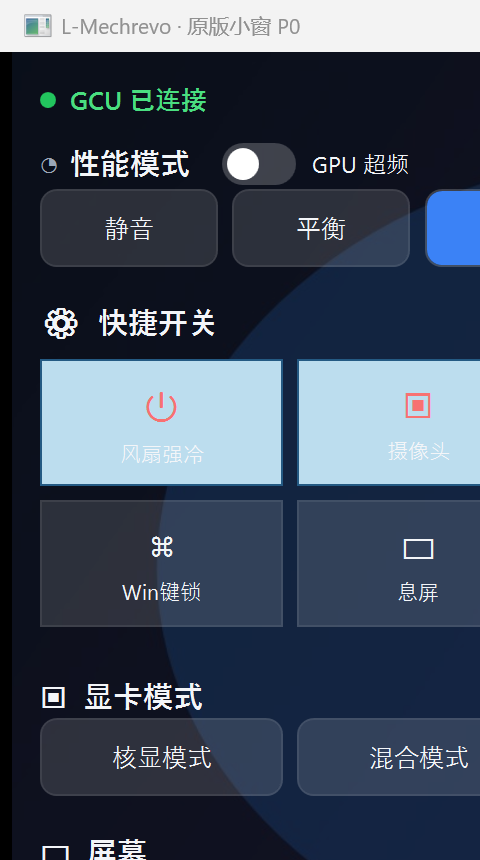
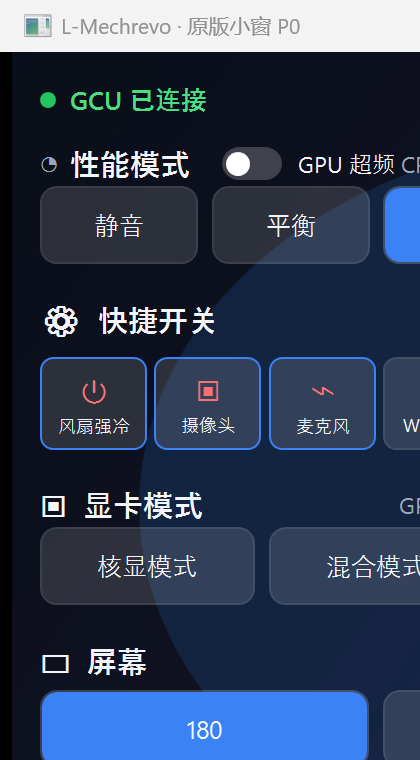
feat(wpf): 原版小窗 420×860、快捷磁贴单排、选中边框高亮、开关缩小

diff --git a/tools/dev/wpf-p0/OriginalStyleWindow.xaml b/tools/dev/wpf-p0/OriginalStyleWindow.xaml
@@ -2,8 +2,8 @@
         xmlns="http://schemas.microsoft.com/winfx/2006/xaml/presentation"
         xmlns:x="http://schemas.microsoft.com/winfx/2006/xaml"
         Title="L-Mechrevo · 原版小窗 P0"
-        Width="480" Height="860"
-        MinWidth="420" MinHeight="700"
+        Width="420" Height="860"
+        MinWidth="380" MinHeight="620"
         WindowStartupLocation="CenterScreen"
         Background="{DynamicResource WindowBgBrush}"
         Foreground="{DynamicResource TextBrush}"
@@ -36,9 +36,31 @@
             <Setter Property="Background" Value="{DynamicResource ControlBrush}" />
             <Setter Property="BorderBrush" Value="{DynamicResource CardBorderBrush}" />
             <Setter Property="BorderThickness" Value="1" />
-            <Setter Property="Margin" Value="0,0,8,8" />
-            <Setter Property="Padding" Value="8,9" />
+            <Setter Property="Margin" Value="0,0,4,0" />
+            <Setter Property="Padding" Value="2,4" />
             <Setter Property="Cursor" Value="Hand" />
+            <Setter Property="Template">
+                <Setter.Value>
+                    <ControlTemplate TargetType="ToggleButton">
+                        <Border x:Name="Bd" Background="{TemplateBinding Background}"
+                                BorderBrush="{TemplateBinding BorderBrush}"
+                                BorderThickness="{TemplateBinding BorderThickness}"
+                                CornerRadius="7" Padding="{TemplateBinding Padding}">
+                            <ContentPresenter HorizontalAlignment="Center" VerticalAlignment="Center" />
+                        </Border>
+                        <ControlTemplate.Triggers>
+                            <Trigger Property="IsMouseOver" Value="True">
+                                <Setter TargetName="Bd" Property="Background" Value="{DynamicResource ControlHoverBrush}" />
+                            </Trigger>
+                            <Trigger Property="IsChecked" Value="True">
+                                <Setter TargetName="Bd" Property="BorderBrush" Value="{DynamicResource AccentBrush}" />
+                                <Setter TargetName="Bd" Property="Background" Value="#22FFFFFF" />
+                                <Setter Property="Foreground" Value="{DynamicResource TextBrush}" />
+                            </Trigger>
+                        </ControlTemplate.Triggers>
+                    </ControlTemplate>
+                </Setter.Value>
+            </Setter>
         </Style>
         <Style x:Key="RowSwitch" TargetType="CheckBox" BasedOn="{StaticResource SwitchBox}">
             <Setter Property="FontSize" Value="14" />
@@ -80,7 +102,7 @@
 
             <ScrollViewer x:Name="MainScroll" Grid.Row="2" VerticalScrollBarVisibility="Auto" HorizontalScrollBarVisibility="Disabled"
                           PanningMode="VerticalOnly" CanContentScroll="False" Background="Transparent">
-                <StackPanel x:Name="ContentPanel" Width="440" HorizontalAlignment="Left">
+                <StackPanel x:Name="ContentPanel" Width="392" HorizontalAlignment="Left">
 
                     <!-- 性能模式 -->
                     <StackPanel Style="{StaticResource Section}">
@@ -96,7 +118,7 @@
                             </StackPanel>
                             <TextBlock Grid.Column="1" Text="CPU 85℃   52W   4427rpm 100%" Style="{StaticResource StatText}" />
                         </Grid>
-                        <UniformGrid Columns="4" Margin="0,2,0,0">
+                        <UniformGrid Columns="4" Width="392" Margin="0,2,0,0">
                             <ToggleButton Content="静音" Style="{StaticResource BigSegment}" />
                             <ToggleButton Content="平衡" Style="{StaticResource BigSegment}" />
                             <ToggleButton Content="狂暴" Style="{StaticResource BigSegment}" IsChecked="True" />
@@ -107,41 +129,41 @@
                     <!-- 快捷开关 -->
                     <StackPanel Style="{StaticResource Section}">
                         <TextBlock Text="⚙  快捷开关" Style="{StaticResource SectionHeader}" />
-                        <UniformGrid Columns="3" Rows="2">
+                        <UniformGrid Columns="6" Rows="1" Width="392">
                             <ToggleButton Style="{StaticResource Tile}" IsChecked="True">
                                 <StackPanel>
-                                    <TextBlock Text="⏻" FontSize="22" HorizontalAlignment="Center" Foreground="#F87171" />
-                                    <TextBlock Text="风扇强冷" FontSize="12" HorizontalAlignment="Center" Margin="0,5,0,0" />
+                                    <TextBlock Text="⏻" FontSize="17" HorizontalAlignment="Center" Foreground="#F87171" />
+                                    <TextBlock Text="风扇强冷" FontSize="10" HorizontalAlignment="Center" Margin="0,3,0,0" />
                                 </StackPanel>
                             </ToggleButton>
                             <ToggleButton Style="{StaticResource Tile}" IsChecked="True">
                                 <StackPanel>
-                                    <TextBlock Text="▣" FontSize="20" HorizontalAlignment="Center" Foreground="#F87171" />
-                                    <TextBlock Text="摄像头" FontSize="12" HorizontalAlignment="Center" Margin="0,5,0,0" />
+                                    <TextBlock Text="▣" FontSize="16" HorizontalAlignment="Center" Foreground="#F87171" />
+                                    <TextBlock Text="摄像头" FontSize="10" HorizontalAlignment="Center" Margin="0,3,0,0" />
                                 </StackPanel>
                             </ToggleButton>
-                            <ToggleButton Style="{StaticResource Tile}" IsChecked="True" Margin="0,0,0,8">
+                            <ToggleButton Style="{StaticResource Tile}" IsChecked="True" >
                                 <StackPanel>
-                                    <TextBlock Text="⌁" FontSize="22" HorizontalAlignment="Center" Foreground="#F87171" />
-                                    <TextBlock Text="麦克风" FontSize="12" HorizontalAlignment="Center" Margin="0,5,0,0" />
+                                    <TextBlock Text="⌁" FontSize="17" HorizontalAlignment="Center" Foreground="#F87171" />
+                                    <TextBlock Text="麦克风" FontSize="10" HorizontalAlignment="Center" Margin="0,3,0,0" />
                                 </StackPanel>
                             </ToggleButton>
                             <ToggleButton Style="{StaticResource Tile}">
                                 <StackPanel>
-                                    <TextBlock Text="⌘" FontSize="20" HorizontalAlignment="Center" />
-                                    <TextBlock Text="Win键锁" FontSize="12" HorizontalAlignment="Center" Margin="0,5,0,0" />
+                                    <TextBlock Text="⌘" FontSize="16" HorizontalAlignment="Center" />
+                                    <TextBlock Text="Win键锁" FontSize="10" HorizontalAlignment="Center" Margin="0,3,0,0" />
                                 </StackPanel>
                             </ToggleButton>
                             <ToggleButton Style="{StaticResource Tile}">
                                 <StackPanel>
-                                    <TextBlock Text="▭" FontSize="20" HorizontalAlignment="Center" />
-                                    <TextBlock Text="息屏" FontSize="12" HorizontalAlignment="Center" Margin="0,5,0,0" />
+                                    <TextBlock Text="▭" FontSize="16" HorizontalAlignment="Center" />
+                                    <TextBlock Text="息屏" FontSize="10" HorizontalAlignment="Center" Margin="0,3,0,0" />
                                 </StackPanel>
                             </ToggleButton>
-                            <ToggleButton Style="{StaticResource Tile}" Margin="0,0,0,8">
+                            <ToggleButton Style="{StaticResource Tile}" >
                                 <StackPanel>
-                                    <TextBlock Text="+" FontSize="24" HorizontalAlignment="Center" Foreground="#F87171" />
-                                    <TextBlock Text="自定义" FontSize="12" HorizontalAlignment="Center" Margin="0,4,0,0" />
+                                    <TextBlock Text="+" FontSize="20" HorizontalAlignment="Center" Foreground="#F87171" />
+                                    <TextBlock Text="自定义" FontSize="10" HorizontalAlignment="Center" Margin="0,3,0,0" />
                                 </StackPanel>
                             </ToggleButton>
                         </UniformGrid>
@@ -157,7 +179,7 @@
                             <TextBlock Text="▣  显卡模式" Style="{StaticResource SectionHeader}" Margin="0" />
                             <TextBlock Grid.Column="1" Text="GPU 73℃   90W   4698rpm 100%" Style="{StaticResource StatText}" />
                         </Grid>
-                        <UniformGrid Columns="3" Margin="0,2,0,0">
+                        <UniformGrid Columns="3" Width="392" Margin="0,2,0,0">
                             <ToggleButton Content="核显模式" Style="{StaticResource BigSegment}" />
                             <ToggleButton Content="混合模式" Style="{StaticResource BigSegment}" />
                             <ToggleButton Content="独显直连" Style="{StaticResource BigSegment}" IsChecked="True" Margin="0" />
@@ -170,7 +192,7 @@
                             <TextBlock Text="▭  屏幕" Style="{StaticResource SectionHeader}" Margin="0" />
                             <CheckBox Content="自动刷新率" Style="{StaticResource RowSwitch}" HorizontalAlignment="Right" FontSize="13" />
                         </Grid>
-                        <UniformGrid Columns="2" Margin="0,0,0,6">
+                        <UniformGrid Columns="2" Width="392" Margin="0,0,0,6">
                             <ToggleButton Content="180" Style="{StaticResource BigSegment}" IsChecked="True" />
                             <ToggleButton Content="60" Style="{StaticResource BigSegment}" Margin="0" />
                         </UniformGrid>
@@ -212,7 +234,7 @@
                             <TextBlock Text="▭  电池" Style="{StaticResource SectionHeader}" Margin="0" />
                             <TextBlock Text="圆口 230/240W · 已充满" Style="{StaticResource StatText}" HorizontalAlignment="Right" />
                         </Grid>
-                        <UniformGrid Columns="3" Margin="0,0,0,10">
+                        <UniformGrid Columns="3" Width="392" Margin="0,0,0,10">
                             <ToggleButton Content="长效模式" Style="{StaticResource BigSegment}" IsChecked="True" />
                             <ToggleButton Content="平衡模式" Style="{StaticResource BigSegment}" />
                             <ToggleButton Content="工作站模式" Style="{StaticResource BigSegment}" Margin="0" />

diff --git a/tools/dev/wpf-p0/App.xaml b/tools/dev/wpf-p0/App.xaml
@@ -113,10 +113,10 @@
                     <Setter.Value>
                         <ControlTemplate TargetType="CheckBox">
                             <StackPanel Orientation="Horizontal">
-                                <Border x:Name="Track" Width="42" Height="24" CornerRadius="12"
+                                <Border x:Name="Track" Width="34" Height="19" CornerRadius="10"
                                         Background="{DynamicResource TrackBrush}" VerticalAlignment="Center">
-                                    <Ellipse x:Name="Knob" Width="18" Height="18" Fill="White"
-                                             HorizontalAlignment="Left" Margin="3,0,0,0" />
+                                    <Ellipse x:Name="Knob" Width="14" Height="14" Fill="White"
+                                             HorizontalAlignment="Left" Margin="2,0,0,0" />
                                 </Border>
                                 <ContentPresenter Margin="9,0,0,0" VerticalAlignment="Center" />
                             </StackPanel>
@@ -124,7 +124,7 @@
                                 <Trigger Property="IsChecked" Value="True">
                                     <Setter TargetName="Track" Property="Background" Value="{DynamicResource AccentBrush}" />
                                     <Setter TargetName="Knob" Property="HorizontalAlignment" Value="Right" />
-                                    <Setter TargetName="Knob" Property="Margin" Value="0,0,3,0" />
+                                    <Setter TargetName="Knob" Property="Margin" Value="0,0,2,0" />
                                 </Trigger>
                             </ControlTemplate.Triggers>
                         </ControlTemplate>

diff --git a/docs/notes/WPF-P0-启动-20261023.md b/docs/notes/WPF-P0-启动-20261023.md
@@ -20,11 +20,11 @@
 
 | 窗口 | 尺寸 | 用途 |
 |---|---|---|
-| `OriginalStyleWindow`（默认） | 480×860 DIP（150% 下约 720×1290 物理像素） | 对齐机主原版小窗：单列分区、快捷磁贴、底部 dock |
+| `OriginalStyleWindow`（默认） | 420×860 DIP（150% 下约 720×1290 物理像素） | 对齐机主原版小窗：单列分区、快捷磁贴、底部 dock |
 | `CompactWindow` | 420×529 DIP | 对齐 WinForms 原版最小客户区 |
 | `MainWindow` | 1180×800 DIP | 宽屏仪表盘对比 |
 
-原版截图 717×1277 物理像素 ≈ 150% 缩放下的 478×851 DIP，因此默认窗口取 480×860 DIP。
+原版截图 717×1277 物理像素 ≈ 150% 缩放下的 478×851 DIP，因此默认窗口取 420×860 DIP。
 
 ## 3. 已实现的 P0 验证点
 

diff --git a/tools/dev/wpf-p0/README.md b/tools/dev/wpf-p0/README.md
@@ -11,7 +11,7 @@
 
 ## 三种形态
 
-- `OriginalStyleWindow`（默认启动）：480×860 DIP，对应机主原版小窗在 150% 缩放下的约 720×1290 物理像素；单列滚动、分区标题、底部 dock。
+- `OriginalStyleWindow`（默认启动）：420×860 DIP，对应机主原版小窗在 150% 缩放下的约 720×1290 物理像素；单列滚动、分区标题、底部 dock。
 - `CompactWindow`：420×529 DIP 的 WinForms 原版最小客户区尺寸。
 - `MainWindow`：1180×800 宽屏仪表盘，用于对比。
 
